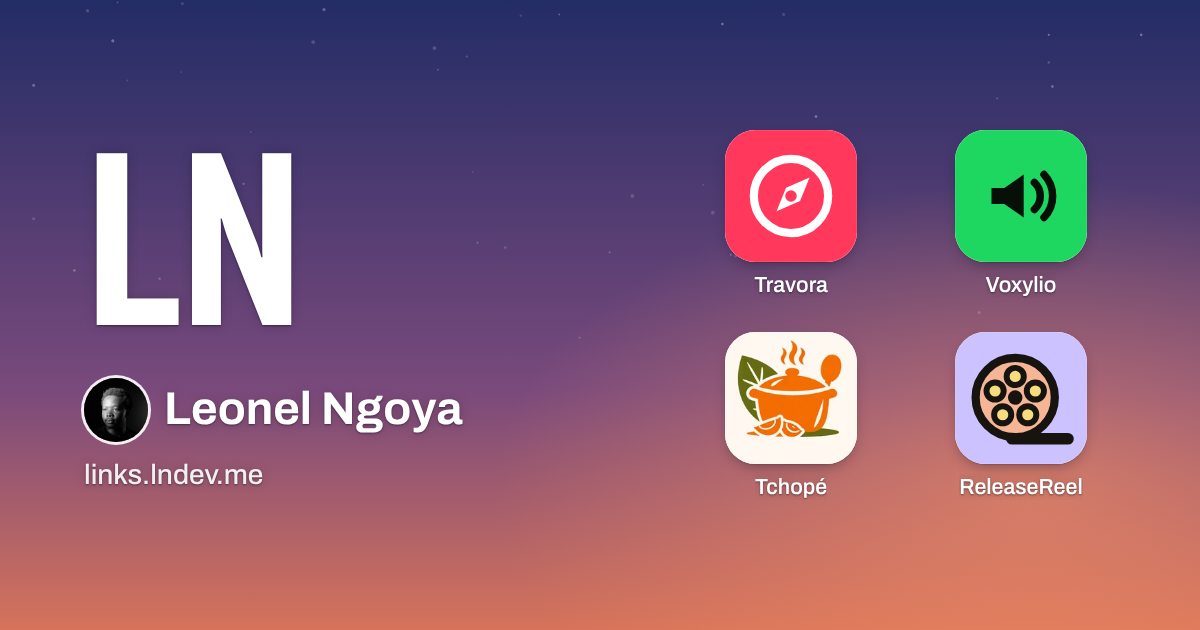
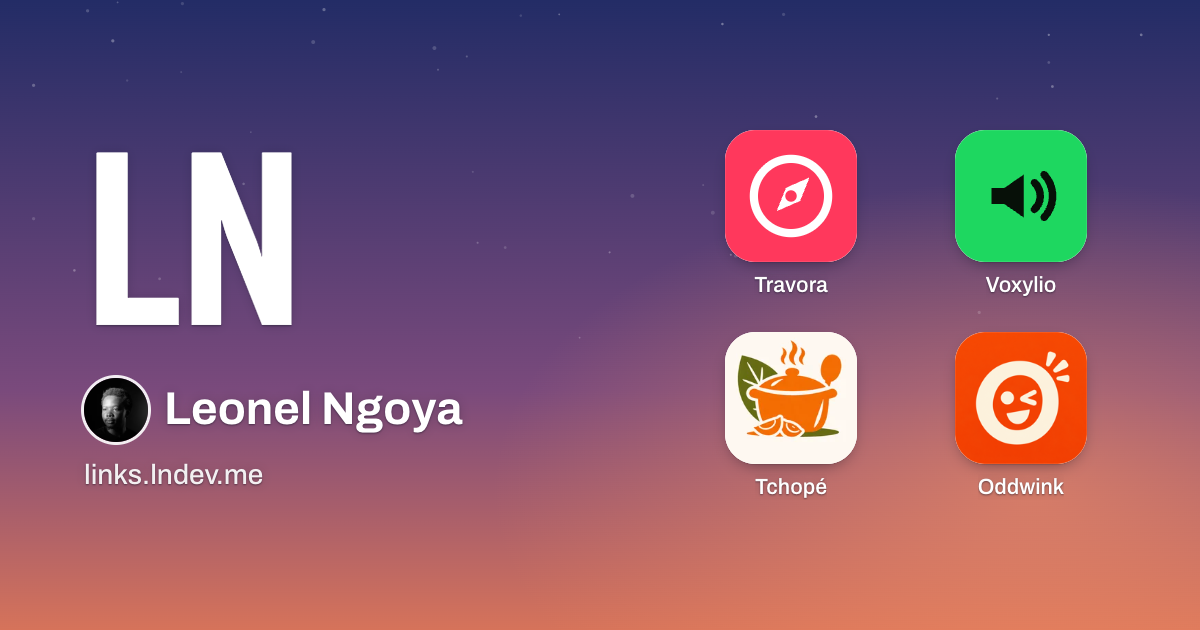
Remplace ReleaseReel par Oddwink et retire l’ancien numéro

Changed region(s): [[0.7708, 0.5127, 0.925, 0.7841], [0.2158, 0.2413, 0.2467, 0.2714], [0.1542, 0.2413, 0.185, 0.2714]]

diff --git a/index.html b/index.html
@@ -20,7 +20,7 @@
   <meta property="og:image" content="https://links.lndev.me/og.png">
   <meta property="og:image:width" content="1200">
   <meta property="og:image:height" content="630">
-  <meta property="og:image:alt" content="Leonel Ngoya’s links: Travora, Voxylio, Tchopé and ReleaseReel">
+  <meta property="og:image:alt" content="Leonel Ngoya’s links: Travora, Voxylio, Tchopé and Oddwink">
   <meta property="og:locale" content="en_US">
   <meta property="og:locale:alternate" content="fr_FR">
   <meta name="twitter:card" content="summary_large_image">
@@ -118,9 +118,9 @@
           <span class="icon"><img draggable="false" src="assets/img/apps/tchope.webp" alt="" width="64" height="64"></span>
           <span class="label">Tchopé</span>
         </a>
-        <a class="app" data-id="release-reel" draggable="false" href="https://release-reel.lndev.me" data-app="release-reel" target="_blank" rel="noopener">
-          <span class="icon"><img draggable="false" src="assets/img/apps/release-reel.svg" alt="" width="64" height="64"></span>
-          <span class="label">ReleaseReel</span>
+        <a class="app" data-id="oddwink" draggable="false" href="https://oddwink.lndev.me" data-app="oddwink" target="_blank" rel="noopener">
+          <span class="icon"><img draggable="false" src="assets/img/apps/oddwink.png" alt="" width="64" height="64"></span>
+          <span class="label">Oddwink</span>
         </a>
         <a class="widget chess" data-id="chess" data-name="Chess.com" draggable="false" href="https://www.chess.com/member/ln_dev" aria-label="Challenge me on Chess.com (@ln_dev)" data-i18n-aria="chessLabel" target="_blank" rel="noopener">
           <svg class="piece" viewBox="0 0 24 24" aria-hidden="true"><path d="M8 16l-1 4h10l-1-4"/><path d="M9 16h6v-2a4 4 0 0 0-1-3l-.5-3 1-1V5h-2v2h-2V5H9v2l1 1-.5 3a4 4 0 0 0-1 3v2z"/></svg>

diff --git a/assets/js/content.js b/assets/js/content.js
@@ -87,15 +87,15 @@ window.LN = {
         { kind: 'github', url: 'https://github.com/ln-dev7/tchope' },
       ],
     },
-    'release-reel': {
-      name: 'ReleaseReel',
-      icon: 'assets/img/apps/release-reel.svg',
-      platforms: { fr: 'Skills pour Claude Code', en: 'Skills for Claude Code' },
+    oddwink: {
+      name: 'Oddwink',
+      icon: 'assets/img/apps/oddwink.png',
+      platforms: { fr: 'Web', en: 'Web' },
       description: {
-        fr: 'Cinq skills Claude Code qui font tes vidéos : films de lancement de ton vrai produit filmé image par image, TikToks, shorts dessinés avec mascotte et vidéos sans visage sur n’importe quel sujet. Paiement unique.',
-        en: 'Five Claude Code skills that make your videos: launch films of your real product filmed frame by frame, TikToks, hand-drawn mascot shorts and faceless shorts on any topic. One-time payment.',
+        fr: 'Des jeux entre amis sur un téléphone partagé, en français et en anglais : L’Intrus, Mot Complice et d’autres jeux pour jouer ensemble.',
+        en: 'Party games on one shared phone, in French and English: Odd One Out, Secret Helper and more games to play together.',
       },
-      links: [{ kind: 'site', url: 'https://release-reel.lndev.me' }],
+      links: [{ kind: 'site', url: 'https://oddwink.lndev.me' }],
     },
   },
 

diff --git a/tools/og.html b/tools/og.html
@@ -38,7 +38,7 @@
       <div><span class="icon"><img src="../assets/img/apps/travora.svg" alt=""></span><span class="label">Travora</span></div>
       <div><span class="icon"><img src="../assets/img/apps/voxylio.svg" alt=""></span><span class="label">Voxylio</span></div>
       <div><span class="icon"><img src="../assets/img/apps/tchope.webp" alt=""></span><span class="label">Tchopé</span></div>
-      <div><span class="icon"><img src="../assets/img/apps/release-reel.svg" alt=""></span><span class="label">ReleaseReel</span></div>
+      <div><span class="icon"><img src="../assets/img/apps/oddwink.png" alt=""></span><span class="label">Oddwink</span></div>
     </div>
   </div>
 </body>

diff --git a/assets/js/app.js b/assets/js/app.js
@@ -757,7 +757,7 @@
   var narrowDefault = idsOf(groupItems('home'))
   var defaults = {
     narrow: narrowDefault,
-    wide: ['travora', 'voxylio', 'tchope', 'release-reel', 'qea', 'chess', 'portfolio', 'github', 'contact', 'collabs'],
+    wide: ['travora', 'voxylio', 'tchope', 'oddwink', 'qea', 'chess', 'portfolio', 'github', 'contact', 'collabs'],
     dock: idsOf(groupItems('dock')),
   }
 

diff --git a/README.md b/README.md
@@ -4,10 +4,10 @@ La page de liens de Leonel Ngoya (LN), en français et en anglais. HTML, CSS et 
 
 La page est pensée comme l’écran d’accueil de mon téléphone : l’heure de Douala en grand, un fond qui suit le ciel de Douala à l’heure réelle (aube, journée, coucher de soleil, nuit étoilée), mes apps en vraies icônes, deux widgets et mes réseaux dans le dock.
 
-- **Apps** : Travora, Voxylio, Tchopé, ReleaseReel. Un tap ouvre une fiche avec la description et les liens (site, App Store, Google Play, extensions…).
+- **Apps** : Travora, Voxylio, Tchopé, Oddwink. Un tap ouvre une fiche avec la description et les liens (site, App Store, Google Play, extensions…).
 - **Quiz et Anecdotes** (retiré) : le widget est commenté dans `index.html` ; le décommenter suffit pour le remettre, le code et les questions sont toujours en place.
 - **Chess.com** : mon classement public (rapide, blitz) chargé depuis l’API publique de Chess.com ; sans réponse, le widget invite simplement à jouer.
-- **Travail et contact** : portfolio, GitHub, Contact et Collabs. Contact ouvre une fenêtre avec deux choix : « Enregistrer mon contact » (`contact.vcf`, la même fiche que [hi.lndev.me](https://hi.lndev.me) : nom, titre, deux numéros, email, site, LinkedIn, X, GitHub ; le téléphone propose de l’ajouter aux contacts) et « M’écrire » (l’email). `vercel.json` sert la fiche en `text/vcard` « inline » pour que l’aperçu natif s’ouvre au lieu d’un simple téléchargement. Sans JavaScript, Contact ouvre directement la fiche.
+- **Travail et contact** : portfolio, GitHub, Contact et Collabs. Contact ouvre une fenêtre avec deux choix : « Enregistrer mon contact » (`contact.vcf`, la même fiche que [hi.lndev.me](https://hi.lndev.me) : nom, titre, numéro de téléphone, email, site, LinkedIn, X, GitHub ; le téléphone propose de l’ajouter aux contacts) et « M’écrire » (l’email). `vercel.json` sert la fiche en `text/vcard` « inline » pour que l’aperçu natif s’ouvre au lieu d’un simple téléchargement. Sans JavaScript, Contact ouvre directement la fiche.
 - **Collabs** : mes collaborations avec des marques (`collabs` dans `assets/js/content.js`). Une seule : son icône s’affiche telle quelle (aujourd’hui Saily) et ouvre sa fiche (« Collaboration commerciale », description, code promo à copier, lien). Deux ou plus : elles se rangent dans un dossier « Collabs » comme sur iPhone (aperçu de 9 icônes au plus ; un toucher ouvre le dossier, un toucher sur une marque ouvre sa fiche). Ajouter une collab = un objet dans `collabs` et son icône carrée dans `assets/img/apps/`.
 - **Dock** : TikTok, Instagram, YouTube, X, LinkedIn, Threads.
 - **Organiser** (désactivé) : un mode « écran d’accueil » où un appui long fait trembler icônes et widgets pour les déplacer, avec une disposition gardée par visiteur. Le code est en place mais coupé ; pour le réactiver, passer `organize: true` dans `assets/js/content.js`.
